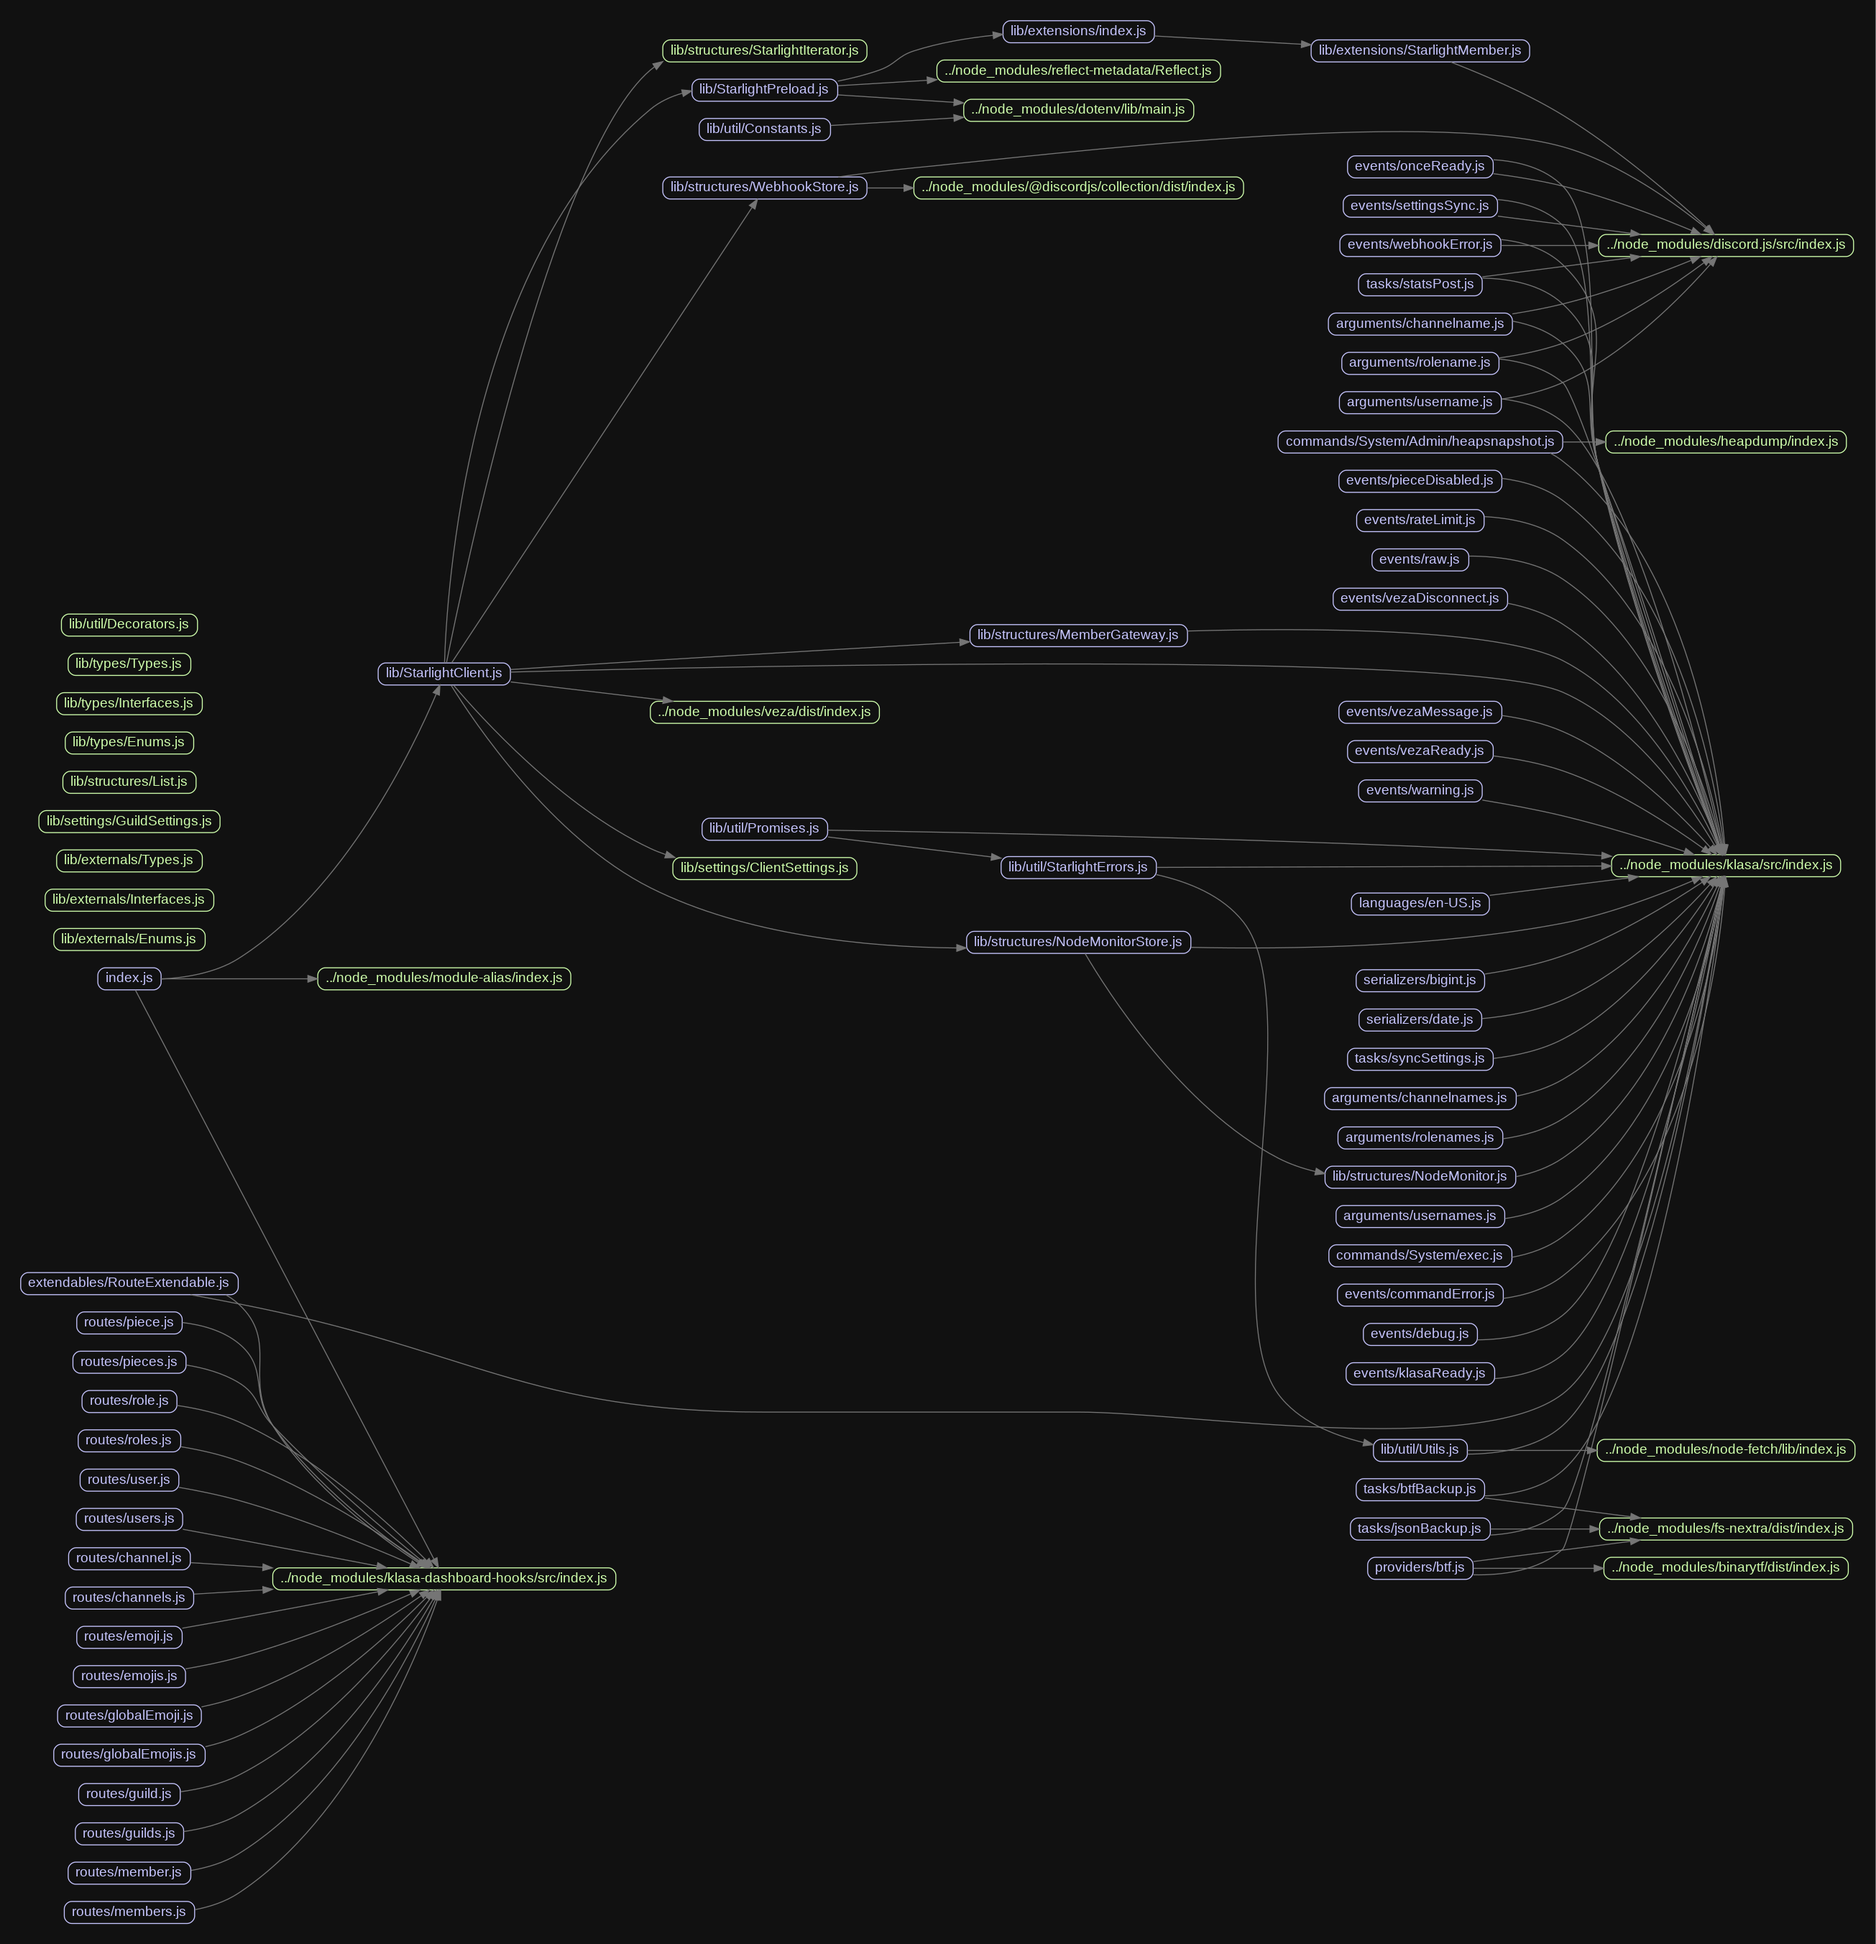
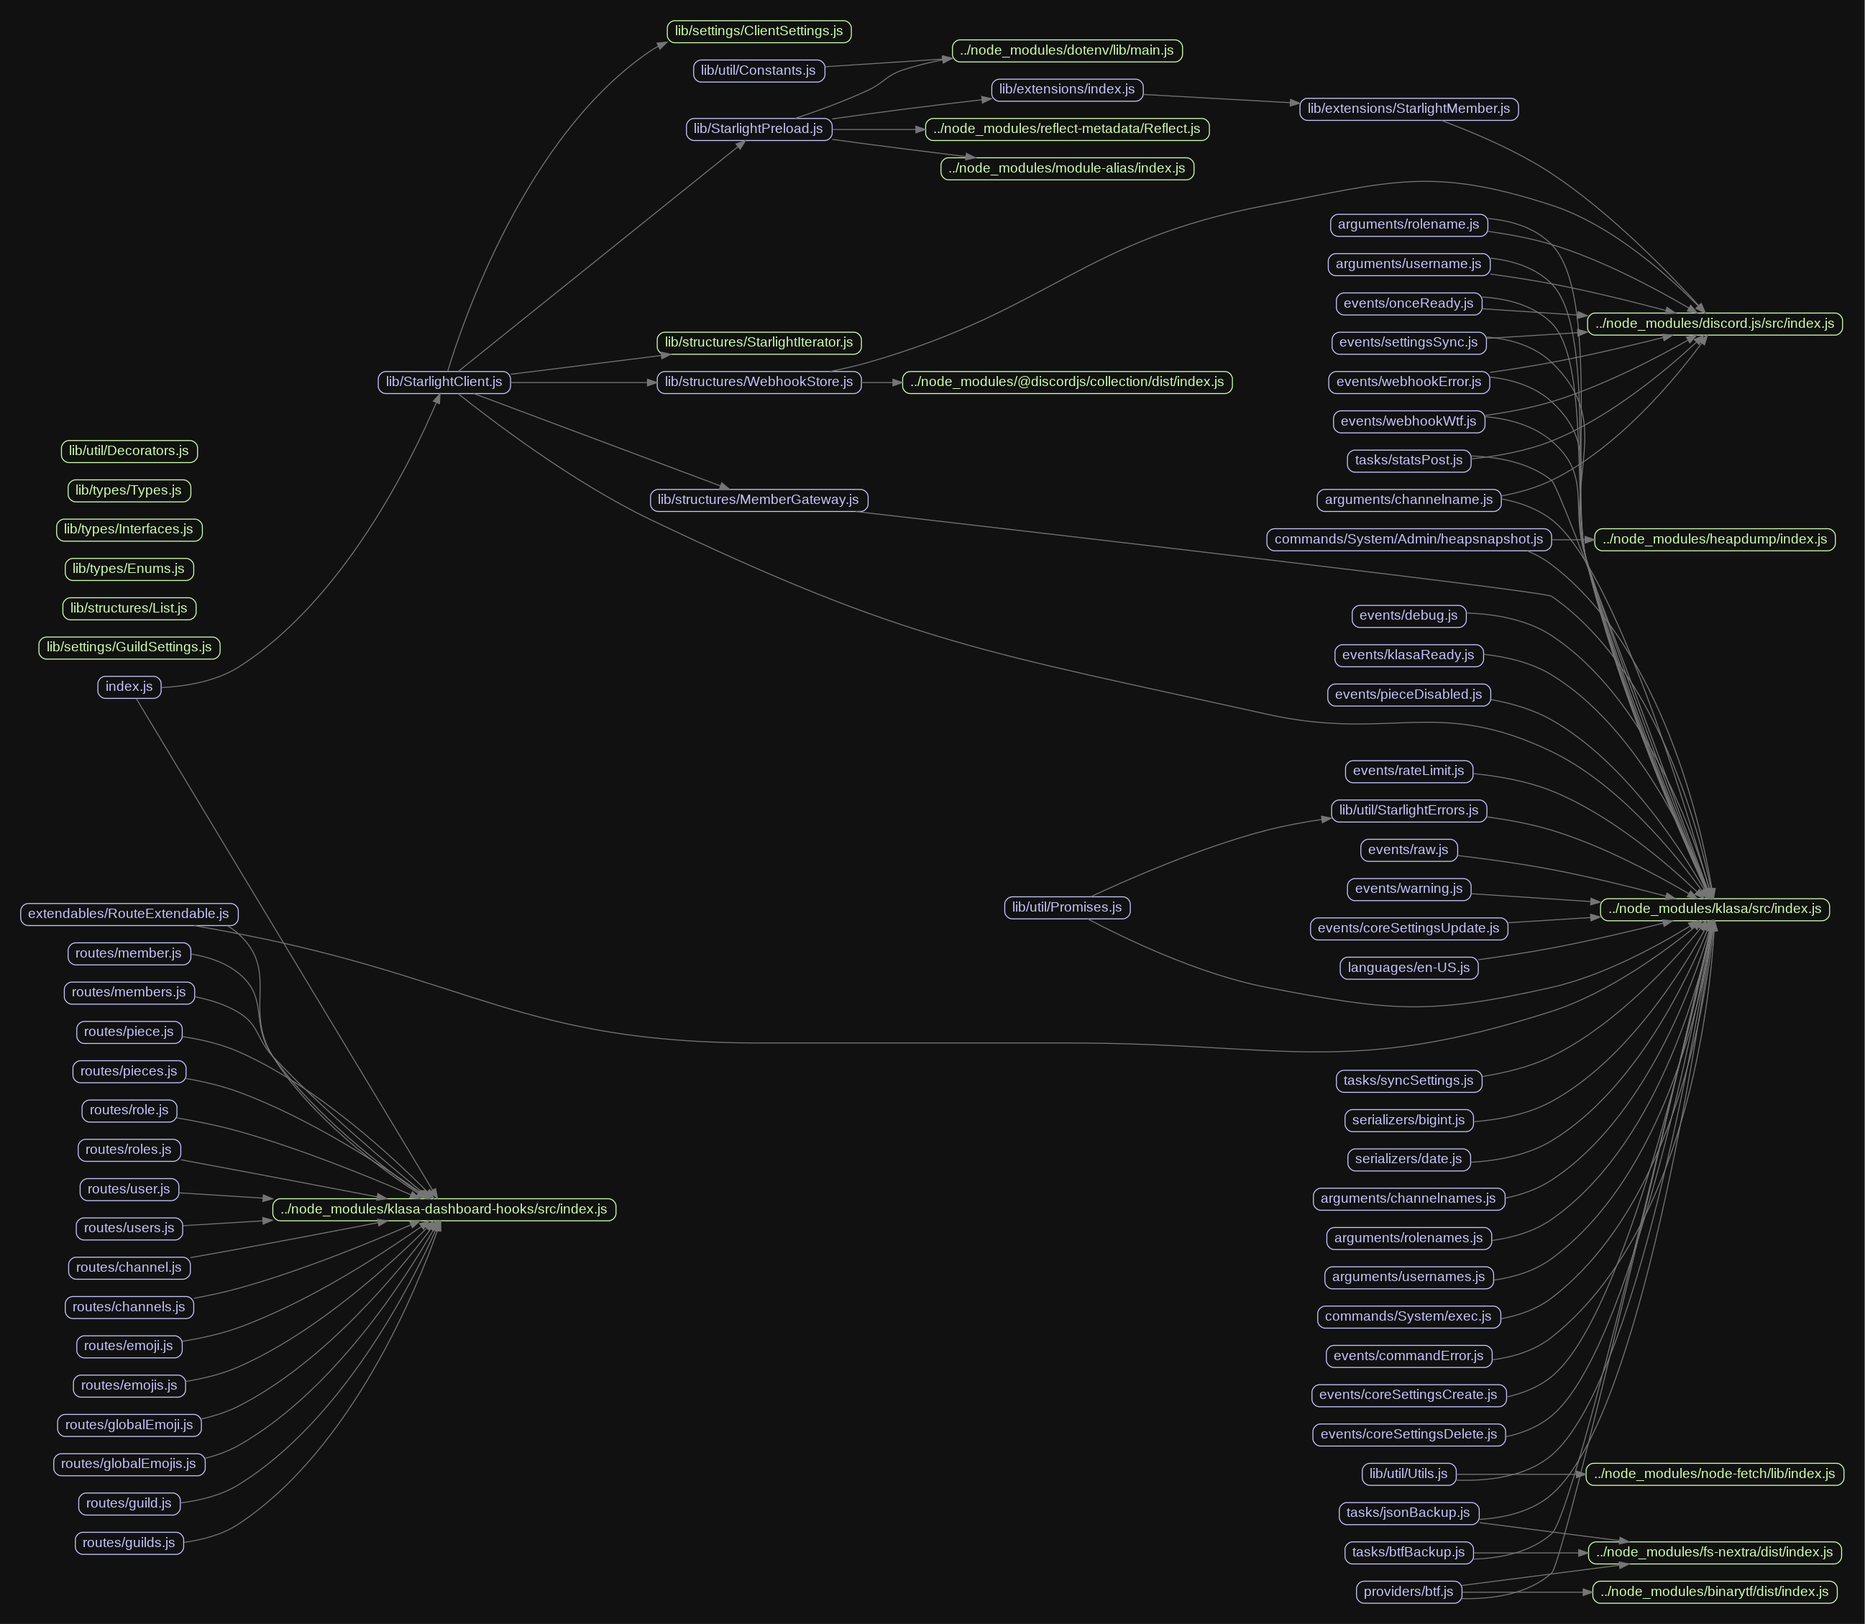
src: readd backend

diff --git a/src/lib/StarlightClient.ts b/src/lib/StarlightClient.ts
@@ -1,20 +1,40 @@
-import { Collection, User, VoiceRegion } from 'discord.js';
+import * as Discord from 'discord.js';
 import { once } from 'events';
 import * as Klasa from 'klasa';
 import { ClientSettings } from './settings/ClientSettings';
 import './StarlightPreload';
+import { IPCMonitorStore } from './structures/IPCMonitorStore';
 import { MemberGateway } from './structures/MemberGateway';
+import { StarlightIPCClient } from './structures/StarlightIPCClient';
 import { StarlightIterator } from './structures/StarlightIterator';
 import { WebhookStore } from './structures/WebhookStore';
+import { Events } from './types/Enums';
+
+const g = new Klasa.Colors({ text: 'green' }).format('[IPC   ]');
+const y = new Klasa.Colors({ text: 'yellow' }).format('[IPC   ]');
+const r = new Klasa.Colors({ text: 'red' }).format('[IPC   ]');
+
 
 export class StarlightClient extends Klasa.Client {
 
-	public regions: Collection<string, VoiceRegion> | null = null;
+	public regions: Discord.Collection<string, Discord.VoiceRegion> | null = null;
 
 	public constructor(options: Klasa.KlasaClientOptions = {}) {
 		super(options);
 
 		Reflect.defineMetadata('StarlightClient', true, this);
+
+		this.ipcMonitors = new IPCMonitorStore(this);
+		this.registerStore(this.ipcMonitors);
+
+		this.ipc = new StarlightIPCClient(this, 'starlight-master')
+			.on('disconnect', (client) => { this.emit(Events.Warn, `${y} Disconnected: ${client.name}`) })
+			.on('ready', (client): void => { this.emit(Events.Verbose, `${g} Ready: ${client.name}`) })
+			.on('error', (error, client) => { this.emit(Events.Error, `${r} Error from ${client.name}`, error) })
+			.on('message', this.ipcMonitors.run.bind(this.ipcMonitors));
+
+
+		this.connected = null;
 
 		const { members = {} } = this.options.gateways;
 		members.schema = 'schema' in members ? members.schema : StarlightClient.defaultMemberSchema;
@@ -24,7 +44,7 @@ export class StarlightClient extends Klasa.Client {
 		this.webhooks = new WebhookStore(this);
 	}
 
-	public get owners(): Set<User> {
+	public get owners(): Set<Discord.User> {
 		if (!this.settings) return super.owners;
 
 		const owners = super.owners;
@@ -38,13 +58,25 @@ export class StarlightClient extends Klasa.Client {
 		return owners;
 	}
 
-	public get ownersIter(): StarlightIterator<User> {
+	public get ownersIter(): StarlightIterator<Discord.User> {
 		return StarlightIterator.from(this.owners);
 	}
 
-	public async fetchVoiceRegions(): Promise<Collection<string, VoiceRegion>> {
+	public async fetchVoiceRegions(): Promise<Discord.Collection<string, Discord.VoiceRegion>> {
 		this.regions = await super.fetchVoiceRegions();
 		return this.regions;
+	}
+
+	public async login(token?: string) {
+		try {
+			await this.ipc.connectTo(7827);
+			this.connected = true;
+		}
+		catch (err) {
+			this.connected = false;
+		} finally {
+			return super.login(token);
+		}
 	}
 
 	public waitFor(event: string): Promise<any[]> {

diff --git a/src/lib/structures/IPCMonitorStore.ts b/src/lib/structures/IPCMonitorStore.ts
@@ -1,0 +1,35 @@
+import { Store, KlasaClient } from 'klasa'
+import { Constructor } from '@typings/Types'
+import { IPCMonitor } from './IPCMonitor'
+import { NodeMessage } from 'veza';
+import { Events } from '@typings/Enums';
+
+export class IPCMonitorStore extends Store<string, IPCMonitor, Constructor<IPCMonitor>> {
+    public constructor(client: KlasaClient) {
+        // @ts-ignore 2345
+        super(client, 'ipcMonitors', IPCMonitor);
+    }
+
+    public async run(message: NodeMessage) {
+        if (!Array.isArray(message.data) || message.data.length === 0 || message.data.length > 2) {
+            if (message.data) this.client.emit(Events.Wtf, 'Invalid Payload', message.data);
+            message.reply([0, 'INVALID_PAYLOAD'])
+            return;
+        }
+
+        const [route, payload = null] = message.data;
+        const monitor = this.get(route);
+
+        if (!monitor) {
+            message.reply([0, 'UNKNOWN_ROUTE']);
+            return;
+        }
+
+        try {
+            const result = await monitor.run(payload);
+            message.reply([1, result]);
+        } catch (error) {
+            message.reply([0, error]);
+        }
+    }
+}

diff --git a/src/lib/types/augments.d.ts b/src/lib/types/augments.d.ts
@@ -1,8 +1,9 @@
-import { ServerResponse } from 'http';
-import { Settings } from 'klasa';
-import { BaseNodeOptions, Node as Lavalink } from 'lavalink';
 import { StarlightIterator } from '@structures/StarlightIterator';
 import { WebhookStore } from '@structures/WebhookStore';
+import { ServerResponse } from 'http';
+import { Settings } from 'klasa';
+import { Client as VezaClient } from 'veza'
+import { IPCMonitorStore } from '@structures/IPCMonitorStore';
 
 // This file is for augments to other modules, such as d.js or klasa.
 
@@ -10,8 +11,10 @@ declare module 'discord.js' {
 	interface Client {
 		regions: null | Collection<string, VoiceRegion>;
 		waitFor(event: string): Promise<any[]>;
-		lavalink: Lavalink | null;
 		webhooks: WebhookStore;
+		ipc: VezaClient;
+		connected: boolean | null;
+		ipcMonitors: IPCMonitorStore
 		readonly ownersIter: StarlightIterator<User>;
 	}
 
@@ -30,11 +33,5 @@ declare module 'discord.js' {
 declare module 'klasa-dashboard-hooks' {
 	interface Route {
 		notFound(response: ServerResponse): void;
-	}
-}
-
-declare module 'klasa' {
-	interface KlasaClientOptions {
-		lavalink?: BaseNodeOptions;
 	}
 }

diff --git a/src/lib/util/Promises.ts b/src/lib/util/Promises.ts
@@ -1,9 +1,9 @@
 // These are nice utilities for Promises
+import { Events } from '@typings/Enums';
+import { StarlightTypeError } from '@utils/StarlightErrors';
+import { Client } from 'discord.js';
 import { EventEmitter, once } from 'events';
 import { util } from 'klasa';
-import { StarlightTypeError } from './StarlightErrors';
-import { Client } from 'discord.js';
-import { Events } from '@typings/Enums';
 
 const { isFunction } = util;
 
@@ -88,8 +88,5 @@ class PromiseEmitter<V> extends EventEmitter {
 
 }
 
-export {
-	PromiseEmitter,
-	PromiseUtil,
-	PromiseEvents
-};
+export { PromiseEmitter, PromiseUtil, PromiseEvents };
+

diff --git a/src/events/coreSettingsCreate.ts b/src/events/coreSettingsCreate.ts
@@ -1,5 +1,5 @@
-import { Event, EventOptions, Settings, EventStore } from 'klasa';
 import { ApplyOptions } from '@utils/Decorators';
+import { Event, EventOptions, EventStore, Settings } from 'klasa';
 const gateways = ['users', 'clientStorage'];
 
 @ApplyOptions<EventOptions>({
@@ -9,7 +9,7 @@ export default class extends Event {
 
 	public constructor(store: EventStore, file: string[], directory: string, options: EventOptions) {
 		super(store, file, directory, options);
-		this.enabled = Boolean(this.client.shard);
+		if (!this.client.shard) this.unload();
 	}
 
 	public run(settings: Settings, updateObject: object): void {

diff --git a/src/events/coreSettingsDelete.ts b/src/events/coreSettingsDelete.ts
@@ -1,5 +1,5 @@
-import { Event, EventOptions, EventStore, Settings } from 'klasa';
 import { ApplyOptions } from '@utils/Decorators';
+import { Event, EventOptions, EventStore, Settings } from 'klasa';
 const gateways = ['clientStorage', 'users'];
 
 @ApplyOptions<EventOptions>({
@@ -9,8 +9,7 @@ export default class extends Event {
 
 	public constructor(store: EventStore, file: string[], directory: string, options: EventOptions) {
 		super(store, file, directory, options);
-
-		this.enabled = Boolean(this.client.shard);
+		if (!this.client.shard) this.disable();
 	}
 
 	public run(settings: Settings): void {

diff --git a/src/providers/btf.ts b/src/providers/btf.ts
@@ -1,10 +1,10 @@
-import { Provider, util, ProviderStore } from 'klasa';
-import { serialize, deserialize } from 'binarytf';
-import { resolve } from 'path';
-import * as fsn from 'fs-nextra';
 import { Events } from '@typings/Enums';
-import { BTFProviderOptions } from 'src/lib/types/Interfaces';
+import { BTFProviderOptions } from '@typings/Interfaces';
 import { noop } from '@utils/Utils';
+import { deserialize, serialize } from 'binarytf';
+import * as fsn from 'fs-nextra';
+import { Provider, ProviderStore, util } from 'klasa';
+import { resolve } from 'path';
 
 export default class extends Provider {
 

diff --git a/src/commands/System/exec.ts b/src/commands/System/exec.ts
@@ -15,7 +15,7 @@ export default class extends Command {
 	public async run(msg: KlasaMessage, [input]: [string]): Promise<KlasaMessage> {
 		await msg.send('Executing your command...');
 
-		const result = await exec(input, { timeout: 'timeout' in msg.flags ? Number(msg.flags.timeout) || 60000 : 60000 })
+		const result = await exec(input, { timeout: 'timeout' in msg.flagArgs ? Number(msg.flagArgs.timeout) || 60000 : 60000 })
 			.catch((err): { stdout: null; stderr: string } => ({ stdout: null, stderr: err }));
 
 		const output = result.stdout ? `**\`OUTPUT\`**${codeBlock('prolog', result.stdout)}` : '';

diff --git a/src/events/coreSettingsUpdate.ts b/src/events/coreSettingsUpdate.ts
@@ -1,5 +1,5 @@
-import { Event, EventStore, EventOptions, Settings } from 'klasa';
 import { ApplyOptions } from '@utils/Decorators';
+import { Event, EventOptions, EventStore, Settings } from 'klasa';
 const gateways = ['clientStorage', 'users'];
 
 
@@ -10,7 +10,7 @@ export default class extends Event {
 
 	public constructor(store: EventStore, file: string[], directory: string, options: EventOptions) {
 		super(store, file, directory, options);
-		this.enabled = Boolean(this.client.shard);
+		if (!this.client.shard) this.disable();
 	}
 
 	public run(settings: Settings, updateObject: object): void {

diff --git a/src/events/onceReady.ts b/src/events/onceReady.ts
@@ -1,11 +1,11 @@
 import { Events } from '@typings/Enums';
-import { APIWebhookData } from 'src/lib/types/Interfaces';
 import { ERROR_WEBHOOK_DATA, STATS_WEBHOOK_DATA } from '@utils/Constants';
 import { ApplyOptions } from '@utils/Decorators';
 import { StarlightTypeError } from '@utils/StarlightErrors';
 import { filterArray } from '@utils/Utils';
 import { Team } from 'discord.js';
 import { Event, EventOptions, util } from 'klasa';
+import { APIWebhookData } from 'src/lib/types/Interfaces';
 let retries = 0;
 
 const webhooks: [string, APIWebhookData][] = [

diff --git a/src/lib/util/StarlightErrors.ts b/src/lib/util/StarlightErrors.ts
@@ -1,6 +1,6 @@
+import { Constructor } from '@typings/Types';
+import { enumerable } from '@utils/Utils';
 import { Type } from 'klasa';
-import { Constructor } from '../types/Types';
-import { enumerable } from './Utils';
 
 const messages: Map<string, (...args: unknown[]) => string> = new Map([
 	['EXPECTED_FOUND', (expected: any, found: any): string => `Expected ${expected}, found ${new Type(found)}.`],

diff --git a/src/lib/util/decorators.ts b/src/lib/util/decorators.ts
@@ -1,5 +1,5 @@
-import { KlasaMessage, PieceOptions, Piece, Store } from 'klasa';
-import { Constructor } from '../types/Types';
+import { Constructor } from '@typings/Types';
+import { KlasaMessage, Piece, PieceOptions, Store } from 'klasa';
 
 // Copyright (c) 2019 kyranet. All rights reserved. MIT License
 // This is a recreation of kyranet's klasa-decorators but with proper type annotation.
